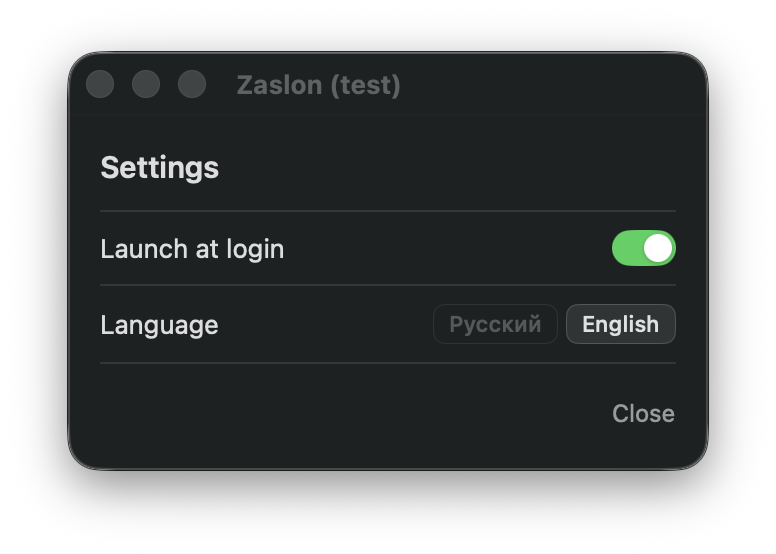
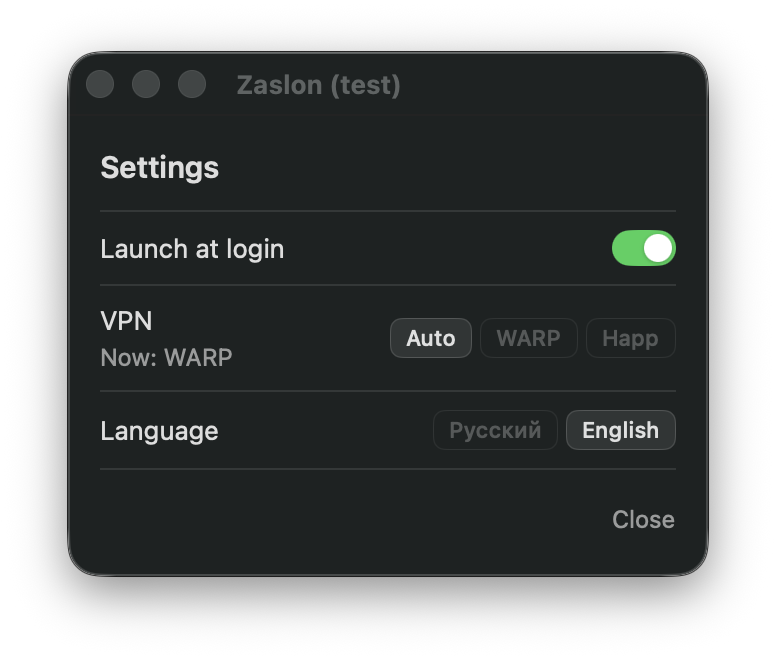
Happ beside WARP: a choice of which VPN to watch; version 1.3.0
Settings get a VPN row: Auto, WARP or Happ. Auto takes WARP when warp-cli is installed, otherwise Happ.

The WARP path is the code it was: warp-cli status and the tunnel interfaces. For Happ, macOS is asked
(scutil --nc list) whether its VPN configuration is connected and which tunnel interface is its own; the gate
and the tunnel proxy pin to that one. The protocol inside Happ makes no difference.

Zaslon never moves between the two on its own. Changing the setting freezes the list first, and an answer that
was asked about the other VPN is dropped.

Not tried on a real Happ: this Mac runs WARP and may not run without it. Checked here: with the setting on Happ
and no Happ present, Zaslon reports not connected, names no tunnel and the tunnel proxy refuses (502), while the
WARP mode on the same build passes (200). `Zaslon --vpn` prints what Zaslon sees.

diff --git a/Sources/Zaslon/Vpn.swift b/Sources/Zaslon/Vpn.swift
@@ -1,0 +1,96 @@
+import Foundation
+import os
+
+/// Which VPN Zaslon watches. WARP is asked through `warp-cli`, exactly as before this file existed. Happ (a client
+/// for VLESS, Reality and the like; the protocol makes no difference here) is a VPN configuration that macOS
+/// itself knows, so macOS is asked: is that configuration connected, and which tunnel interface is its own.
+///
+/// Zaslon never moves from one VPN to the other on its own while running: if the watched one drops, the list is
+/// frozen until that same one is back, even when another VPN is up.
+enum Vpn: String, CaseIterable {
+    case warp, happ
+
+    var name: String { self == .warp ? "WARP" : "Happ" }
+
+    /// "auto", "warp" or "happ": what the settings hold.
+    static var chosen: String { UserDefaults.standard.string(forKey: "vpn").flatMap { Vpn(rawValue: $0)?.rawValue } ?? "auto" }
+
+    /// The VPN in use. "auto" looks at what is installed: WARP if its `warp-cli` is there, otherwise Happ.
+    static var current: Vpn { pick(chosen, warpInstalled: FileManager.default.isExecutableFile(atPath: "/usr/local/bin/warp-cli")) }
+
+    static func pick(_ chosen: String, warpInstalled: Bool) -> Vpn { Vpn(rawValue: chosen) ?? (warpInstalled ? .warp : .happ) }
+
+    /// Is the VPN connected, and which tunnels are its own. Anything unclear counts as not connected.
+    func state() -> (ok: Bool, nets: Set<String>) {
+        guard self == .happ else {
+            let ok = warpConnected()
+            return (ok, ok ? tunnels() : [])
+        }
+        let nets = happTunnels()
+        return (!nets.isEmpty, nets)
+    }
+
+    /// The tunnels a new connection may be pinned to, right now.
+    static func tunnelsNow() -> Set<String> { current == .happ ? happTunnels() : tunnels() }
+}
+
+/// macOS's list of VPN configurations (`scutil --nc list`) → the id of the connected one whose line carries `name`.
+///     * (Connected)      1B2C…-…  VPN (com.example.happ) "Happ"      [VPN:com.example.happ]
+func parseVpnList(_ list: String, name: String) -> String? {
+    for line in list.split(separator: "\n") where line.contains("(Connected)") && line.localizedCaseInsensitiveContains(name) {
+        if let id = line.split(separator: " ").first(where: { $0.count == 36 && $0.filter({ $0 == "-" }).count == 4 }) { return String(id) }
+    }
+    return nil
+}
+
+/// The tunnel interface in `scutil --nc status <id>`: "InterfaceName : utun6".
+func parseVpnInterface(_ status: String) -> String? {
+    status.split(separator: "\n").compactMap { line -> String? in
+        let words = line.split(separator: " ")
+        return words.count == 3 && words[0] == "InterfaceName" && words[2].hasPrefix("utun") ? String(words[2]) : nil
+    }.first
+}
+
+private func scutil(_ arguments: [String]) -> String {
+    let (p, pipe) = (Process(), Pipe())
+    p.executableURL = URL(fileURLWithPath: "/usr/sbin/scutil")
+    p.arguments = arguments
+    p.standardOutput = pipe
+    p.standardError = FileHandle.nullDevice
+    guard (try? p.run()) != nil else { return "" }
+    DispatchQueue.global().asyncAfter(deadline: .now() + 1) { if p.isRunning { p.terminate() } } // a hung answer is no answer
+    let data = pipe.fileHandleForReading.readDataToEndOfFile()
+    p.waitUntilExit()
+    return String(decoding: data, as: UTF8.self)
+}
+
+private let happSeen = OSAllocatedUnfairLock(initialState: (at: Date.distantPast, interface: String?.none, connected: false))
+
+/// Happ's tunnels that are up right now, as "utun6/198.18.0.1"; empty when Happ is not connected.
+///
+/// macOS is asked at most every 0.4 s (the gate asks for every connection); the interfaces themselves are read
+/// afresh every time, so a tunnel that has just gone is never returned.
+// ponytail: if macOS does not name the interface, every tunnel with an IPv4 address counts, as with WARP. With
+// WARP connected too, that could be WARP's tunnel. Tell them apart by the tunnel's owner if a build of Happ needs it.
+// ponytail: only Happ by default. `defaults write local.zaslon vpnName <name>` watches another client that macOS
+// lists under VPN; give such clients their own switch position when someone asks.
+func happTunnels() -> Set<String> {
+    let seen = happSeen.withLock { $0 }
+    var (interface, connected) = (seen.interface, seen.connected)
+    if Date().timeIntervalSince(seen.at) > 0.4 {
+        let id = parseVpnList(scutil(["--nc", "list"]), name: UserDefaults.standard.string(forKey: "vpnName") ?? "happ")
+        let fresh = (at: Date(), interface: id.flatMap { parseVpnInterface(scutil(["--nc", "status", $0])) }, connected: id != nil)
+        happSeen.withLock { $0 = fresh }
+        (interface, connected) = (fresh.interface, fresh.connected)
+    }
+    guard connected else { return [] }
+    return tunnels().filter { interface == nil || $0.hasPrefix(interface! + "/") }
+}
+
+/// `Zaslon --vpn`: which VPN is watched and what Zaslon sees of it. For a first look on a new Mac.
+func vpnReport() {
+    let state = Vpn.current.state()
+    print("setting: \(Vpn.chosen), watching: \(Vpn.current.name), connected: \(state.ok), its tunnels: \(state.nets.sorted().joined(separator: ", "))")
+    print("all tunnels: \(tunnels().sorted().joined(separator: ", "))")
+    if Vpn.current == .happ { print(scutil(["--nc", "list"])) }
+}

diff --git a/Sources/Zaslon/App.swift b/Sources/Zaslon/App.swift
@@ -23,6 +23,11 @@ enum Main {
             Gate.shared.start(port: port, dnsPort: dnsPort)
             dispatchMain()
         }
+        // --vpn: which VPN is watched (WARP or Happ) and what Zaslon sees of it.
+        if args.contains("--vpn") {
+            vpnReport()
+            exit(0)
+        }
         // --through <app>: start the app through the tunnel proxy, exactly as the button in the window does (tests).
         if let i = args.firstIndex(of: "--through"), i + 1 < args.count {
             Gate.shared.open(args[i + 1])
@@ -723,9 +728,11 @@ struct RemoveButton: View {
     }
 }
 
-/// The settings, shown in place of the list: autostart and language.
+/// The settings, shown in place of the list: autostart, which VPN to watch, language.
 struct SettingsView: View {
+    @ObservedObject var g: Guard
     @ObservedObject var catalog: Catalog
+    @State private var vpn = Vpn.chosen
     @ObservedObject var lang = Lang.shared
     let close: () -> Void
 
@@ -742,17 +749,30 @@ struct SettingsView: View {
             .padding(.vertical, 9)
             Divider()
             HStack(spacing: 8) {
+                VStack(alignment: .leading, spacing: 3) {
+                    Text("VPN").font(.system(size: 13))
+                    if vpn == "auto" { Text(t("Сейчас: ", "Now: ") + Vpn.current.name).font(.system(size: 12)).foregroundStyle(.secondary) }
+                }
+                Spacer()
+                HStack(spacing: 4) {
+                    ForEach([("auto", t("Авто", "Auto")), ("warp", "WARP"), ("happ", "Happ")], id: \.0) { code, name in
+                        chip(name, on: vpn == code) {
+                            guard vpn != code else { return }
+                            vpn = code
+                            UserDefaults.standard.set(code, forKey: "vpn")
+                            g.trip() // freeze first; only an answer about the VPN now chosen thaws the list
+                        }
+                    }
+                }
+            }
+            .padding(.vertical, 9)
+            Divider()
+            HStack(spacing: 8) {
                 Text(t("Язык", "Language")).font(.system(size: 13))
                 Spacer()
-                // Two plain chips, not a system control: they look the same in both themes and in an inactive window.
                 HStack(spacing: 4) {
                     ForEach([("ru", "Русский"), ("en", "English")], id: \.0) { code, name in
-                        Button { lang.choose(code) } label: {
-                            Text(name).font(.system(size: 11, weight: .medium)).padding(.horizontal, 8).padding(.vertical, 3)
-                                .foregroundStyle(lang.code == code ? HierarchicalShapeStyle.primary : .tertiary)
-                                .modifier(Chip(rest: lang.code == code ? 0.1 : 0, outline: lang.code == code ? 0.2 : 0.1))
-                        }
-                        .buttonStyle(.plain)
+                        chip(name, on: lang.code == code) { lang.choose(code) }
                     }
                 }
             }
@@ -765,6 +785,16 @@ struct SettingsView: View {
             .buttonStyle(.plain).font(.system(size: 12)).foregroundStyle(.secondary)
             .padding(.top, 12)
         }
+    }
+
+    /// One choice in a row of them. A plain chip, not a system control: it looks the same in both themes and in an inactive window.
+    func chip(_ name: String, on: Bool, action: @escaping () -> Void) -> some View {
+        Button(action: action) {
+            Text(name).font(.system(size: 11, weight: .medium)).padding(.horizontal, 8).padding(.vertical, 3)
+                .foregroundStyle(on ? HierarchicalShapeStyle.primary : .tertiary)
+                .modifier(Chip(rest: on ? 0.1 : 0, outline: on ? 0.2 : 0.1))
+        }
+        .buttonStyle(.plain)
     }
 }
 
@@ -789,7 +819,7 @@ struct Panel: View {
             switch screen {
             case .list: main
             case .journal: JournalView(journal: .shared) { screen = .list }
-            case .settings: SettingsView(catalog: catalog) { screen = .list }
+            case .settings: SettingsView(g: g, catalog: catalog) { screen = .list }
             }
         }
         .padding(16)
@@ -934,10 +964,11 @@ struct Panel: View {
     }
 
     var subtitle: String {
+        let vpn = Vpn.current.name // WARP or Happ: the one that is watched
         switch g.protected {
-        case nil: return t("Спрашиваю WARP", "Asking WARP")
-        case true?: return t("WARP подключён", "WARP connected")
-        case false?: return g.freezing ? t("WARP отключён, ", "WARP disconnected, ") : t("WARP отключён, программы работают", "WARP disconnected, apps are running")
+        case nil: return t("Спрашиваю \(vpn)", "Asking \(vpn)")
+        case true?: return t("\(vpn) подключён", "\(vpn) connected")
+        case false?: return g.freezing ? t("\(vpn) отключён, ", "\(vpn) disconnected, ") : t("\(vpn) отключён, программы работают", "\(vpn) disconnected, apps are running")
         }
     }
 

diff --git a/Sources/Zaslon/Guard.swift b/Sources/Zaslon/Guard.swift
@@ -196,12 +196,14 @@ final class Guard: ObservableObject {
         // While WARP is up and nothing is frozen, the process scan only feeds the dots in the window, so one scan
         // in four is enough (every 2 s). Measured: scanning on every answer cost 4% of a core around the clock.
         let scan = protected != true || !frozen.isEmpty || ticks % 20 == 0
+        let vpn = Vpn.current
         DispatchQueue.global(qos: .userInitiated).async {
-            let ok = warpConnected()
-            let nets = ok ? tunnels() : []
+            let (ok, nets) = vpn.state() // WARP: warp-cli and the tunnels, as ever; Happ: see Vpn.swift
             let procs = scan || !ok ? list() : nil // off the main thread: a scan takes 5–10 ms
             DispatchQueue.main.async {
                 self.checking = false
+                // The setting changed while this was asked: the answer is about the other VPN and may not thaw anything.
+                guard vpn == Vpn.current else { return self.check() }
                 if ok { self.learn(nets) }
                 if let procs { self.update(ok, procs) } // nil: still connected, nothing to do
             }
@@ -286,6 +288,18 @@ func selftest() {
     precondition(!parseWarp("Status update: Disconnected\nReason: Manual Disconnection"))
     precondition(!parseWarp("Status update: Connecting"))
     precondition(!parseWarp(""))
+    // Which VPN: a choice made by hand wins; "auto" takes WARP when it is installed.
+    precondition(Vpn.pick("auto", warpInstalled: true) == .warp && Vpn.pick("auto", warpInstalled: false) == .happ)
+    precondition(Vpn.pick("happ", warpInstalled: true) == .happ && Vpn.pick("warp", warpInstalled: false) == .warp)
+    let vpns = """
+        Available network connection services in the current set (*=enabled):
+        * (Disconnected)   8E2B3C4D-0000-4000-8000-AAAAAAAAAAAA VPN (com.wireguard.macos) "home" [VPN:com.wireguard.macos]
+        * (Connected)      0F1E2D3C-1111-4111-8111-BBBBBBBBBBBB VPN (com.example.happ) "Happ"   [VPN:com.example.happ]
+        """
+    precondition(parseVpnList(vpns, name: "happ") == "0F1E2D3C-1111-4111-8111-BBBBBBBBBBBB")
+    precondition(parseVpnList(vpns, name: "home") == nil && parseVpnList(vpns.replacingOccurrences(of: "(Connected)", with: "(Connecting)"), name: "happ") == nil)
+    precondition(parseVpnInterface("Connected\nExtended Status <dictionary> {\n  IPv4 : <dictionary> {\n    InterfaceName : utun6\n  }\n}") == "utun6")
+    precondition(parseVpnInterface("Connected\nExtended Status <dictionary> {\n  Status : 2\n}") == nil)
 
     // Logic on a fake process table.
     let app = Entry(name: "App", matches: ["/Applications/App.app", "tool"])

diff --git a/Sources/Zaslon/Proxy.swift b/Sources/Zaslon/Proxy.swift
@@ -19,7 +19,7 @@ final class Tunnel {
     /// The VPN tunnel right now, asked afresh for every connection: the utun that is up and holds an IPv4 address
     /// (the system's own utuns have neither). nil when there is no such tunnel.
     var interface: NWInterface? {
-        let names = pinned.map { [$0] } ?? tunnels().map { String($0.prefix { $0 != "/" }) }
+        let names = pinned.map { [$0] } ?? Vpn.tunnelsNow().map { String($0.prefix { $0 != "/" }) }
         return monitor.currentPath.availableInterfaces.first { names.contains($0.name) }
     }
 

diff --git a/Formula/zaslon.rb b/Formula/zaslon.rb
@@ -3,7 +3,7 @@
 #   brew trust eruma1ra/zaslon
 #   brew install zaslon
 class Zaslon < Formula
-  desc "VPN kill switch for AI apps: ChatGPT and Claude only through the WARP tunnel"
+  desc "VPN kill switch for AI apps: ChatGPT and Claude only through the VPN tunnel"
   homepage "https://github.com/eruma1ra/zaslon"
   url "https://github.com/eruma1ra/zaslon/archive/refs/tags/v1.2.0.tar.gz"
[1 lines of base64/hex data omitted]
@@ -35,7 +35,7 @@ class Zaslon < Formula
       After `brew upgrade zaslon`, run `zaslon` once more: macOS starts the
       launch agent of a rebuilt app only after the app has registered it again.
 
-      Zaslon needs Cloudflare WARP (warp-cli).
+      Zaslon needs Cloudflare WARP (warp-cli) or Happ in TUN mode.
     EOS
   end
 

diff --git a/README.md b/README.md
@@ -12,7 +12,7 @@ If the VPN is not there, ChatGPT and Claude cannot reach their servers at all, a
 
 *Zaslon* (заслон) is Russian for "barrier". It is a small menu bar app, written in Swift and SwiftUI, with no dependencies. It was built for a setup where the VPN must always be on and nothing an AI app sends may leave the Mac outside of it.
 
-> Zaslon works with **Cloudflare WARP** only. The interface comes in English and Russian.
+> Zaslon works with **Cloudflare WARP** and with **Happ** (a client for VLESS, Reality and the like). The Happ mode is new and has not been tried on a real Happ yet: see [Which VPN](#which-vpn). The interface comes in English and Russian.
 
 ## Get it
 
@@ -50,7 +50,7 @@ flowchart LR
     R --> D["Zaslon DNS answerer<br>127.0.0.1:5354"]
     D -- "2 · it is at 127.0.0.1" --> P
     P -- "3 · TLS to 127.0.0.1:443" --> F["Zaslon forwarder<br>reads the server name"]
-    F -- "4 · connection pinned<br>to the WARP tunnel" --> S["Real server"]
+    F -- "4 · connection pinned<br>to the VPN tunnel" --> S["Real server"]
     F -. "no tunnel" .-> X["Connection refused"]
 ```
 
@@ -85,6 +85,8 @@ How a drop is noticed:
 - **`warp-cli status`, twice a second**, and ten times a second during a drop. Only this answer can thaw the apps; the tripwire can only freeze.
 - **Unknown means unprotected.** Zaslon freezes the list before the first answer arrives. A missing or hung `warp-cli` keeps it frozen.
 
+With Happ the same two checks run; only the question differs (see [Which VPN](#which-vpn)).
+
 **The 0.05 s gap.** The tripwire runs every 50 ms, so for up to 50 ms after a drop a listed app is still running and may send on a connection that is already open. That is the price of reacting. Two more facts, both measured:
 
 - While an app is frozen it sends nothing, but the kernel still *receives* on its open connections (about 25 KB per app in the test).
@@ -117,7 +119,7 @@ Every state, in the light and the dark theme.
 | **Adding an app** | <img src="docs/picker-light.png" width="330" alt="Adding an app, light"> | <img src="docs/picker-dark.png" width="330" alt="Adding an app, dark"> |
 | **Journal** | <img src="docs/journal-light.png" width="330" alt="Journal, light"> | <img src="docs/journal-dark.png" width="330" alt="Journal, dark"> |
 
-The header says what is going on:
+The header says what is going on (with Happ it names Happ):
 
 | Header | Meaning |
 |---|---|
@@ -144,7 +146,7 @@ Controls:
 - **×**: removes the app from the list. For ChatGPT and Claude this also removes the gate rule and asks for the password again.
 - **+ Add**: add an app from a searchable list of everything installed. Adding ChatGPT or Claude asks for the admin password; if you refuse, the app is not added.
 - **Clock**: the journal of outages (below).
-- **Gear**: the settings, shown in place of the list like the journal. **Launch at login**, and **Language**: English or Russian. Zaslon starts in the system's language.
+- **Gear**: the settings, shown in place of the list like the journal. **Launch at login**, **VPN** (Auto, WARP or Happ: see [Which VPN](#which-vpn)), and **Language**: English or Russian. Zaslon starts in the system's language.
 - **Quit**.
 
 ## The journal
@@ -155,10 +157,22 @@ An outage is counted from the moment Zaslon stops the apps to the moment WARP re
 
 The journal holds the last 50 outages in `~/Library/Application Support/Zaslon/journal.json`.
 
+## Which VPN
+
+Zaslon watches one VPN. The settings say which: **Auto**, **WARP** or **Happ**.
+
+- **Auto** looks at what is installed: WARP if `warp-cli` is there, otherwise Happ. The row shows which one it took.
+- **WARP** is asked through `warp-cli status`, as described above.
+- **Happ** is a VPN that macOS itself lists. Zaslon asks macOS (`scutil --nc list`) whether Happ's configuration is connected and which tunnel interface is its own, and pins the gate to that tunnel. The protocol inside Happ (VLESS, Reality, Trojan and so on) makes no difference: Zaslon sees only the tunnel. Happ must run as a system-wide tunnel (TUN); as a plain local proxy it has no tunnel and Zaslon keeps the list frozen.
+
+Zaslon never moves from one VPN to the other by itself. If the watched one drops while another is up, the list stays frozen until the watched one is back. Changing the setting freezes the list first; only an answer about the newly chosen VPN thaws it. Connections the gate already opened stay on the tunnel they were pinned to.
+
+**Not tried on a real Happ.** The Mac this was built on runs WARP and may not run without it. What was checked: with the setting on Happ and no Happ present, Zaslon reports "not connected", names no tunnel (WARP's tunnel is not taken for Happ's) and the tunnel proxy refuses every connection. `Zaslon --vpn` prints what Zaslon sees; if Happ is connected and that line says it is not, open an issue with the output. A client other than Happ that macOS lists under VPN can be tried with `defaults write local.zaslon vpnName <part of its name>`.
+
 ## Requirements
 
 - macOS 14 or newer
-- [Cloudflare WARP](https://developers.cloudflare.com/warp-client/) with `warp-cli` at `/usr/local/bin/warp-cli`
+- [Cloudflare WARP](https://developers.cloudflare.com/warp-client/) with `warp-cli` at `/usr/local/bin/warp-cli`, or [Happ](https://apps.apple.com/app/id6504287215) in TUN mode
 
 ## Install
 
@@ -226,6 +240,7 @@ Everything runs from the binary inside the bundle, `Zaslon.app/Contents/MacOS/Za
 | `--selftest` | Checks the logic: freeze and thaw on a fake process table, the tripwire, TLS server name parsing, DNS answers, the rule script (in a scratch folder, without admin rights), the connection reader. |
 | `--cover <app or name…>` | Read-only. Lists every process an entry would freeze and every connection they hold, marking the ones outside the VPN. |
 | `--drill <seconds> <app or name…>` | A fire drill without touching the VPN: freezes the given programs through the real code path, then thaws them. |
+| `--vpn` | Read-only. Says which VPN is watched, whether Zaslon sees it connected, and its tunnels. |
 | `--gate <port> <dns port> [interface]` | Runs only the gate on spare ports. |
 | `--proxy <port> [interface]` | Runs only the tunnel proxy. |
 | `--window`, `--picker` | Shows the panel in a normal window. With `SHOT=<file.png>` it saves a picture and quits; `LOOK=light\|dark`, `UI=en\|ru`, `DROP=1`, `OFF=1`, `GEAR=1` and `LOG=1` choose the state. |
@@ -242,7 +257,7 @@ Everything runs from the binary inside the bundle, `Zaslon.app/Contents/MacOS/Za
 
 ## Limits
 
-- Cloudflare WARP only. Another VPN needs its own "is it connected" check.
+- Cloudflare WARP and Happ. The Happ mode has not been tried on a real Happ. If macOS does not name Happ's tunnel interface, every tunnel with an IPv4 address counts as its own.
 - The freeze has a window of up to 50 ms, and the kernel keeps receiving on open connections.
 - The gate knows two services, at fixed paths: `/Applications/ChatGPT.app` and `/Applications/Claude.app`. The list is in `Gate.swift`.
 - One address per name, IPv4 only. The DNS answerer gives no IPv6 answer, so programs use IPv4.
@@ -253,6 +268,7 @@ Everything runs from the binary inside the bundle, `Zaslon.app/Contents/MacOS/Za
 | File | What is in it |
 |---|---|
 | `Sources/Zaslon/Guard.swift` | The freeze: process scan, process trees, WARP check, tripwire, self-test. |
+| `Sources/Zaslon/Vpn.swift` | Which VPN is watched: the choice, and the question asked of Happ. |
 | `Sources/Zaslon/Gate.swift` | The gate: DNS answerer, forwarder, the `/etc/resolver` rule, the connection reader. |
 | `Sources/Zaslon/Proxy.swift` | Tunnel-pinned connections, the real-address lookup, the `CONNECT` proxy. |
 | `Sources/Zaslon/Journal.swift` | The journal of outages and its view. |
